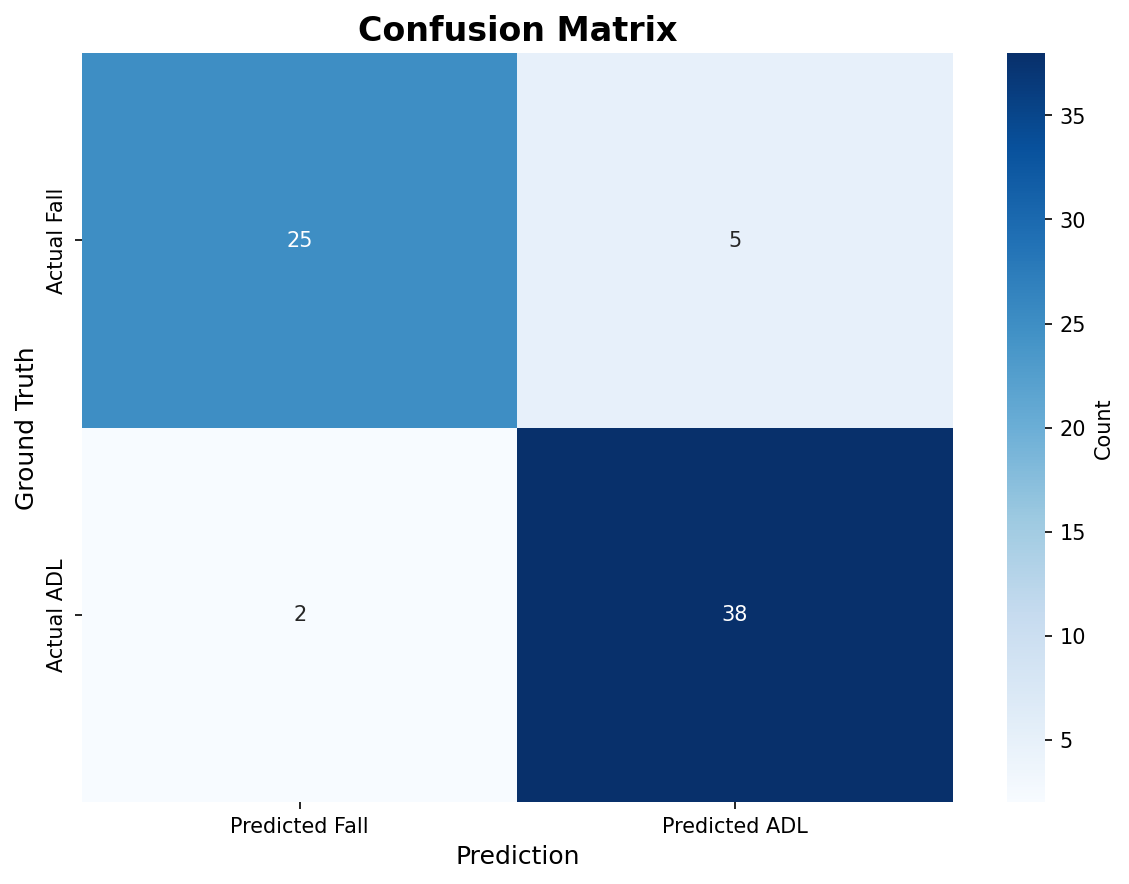
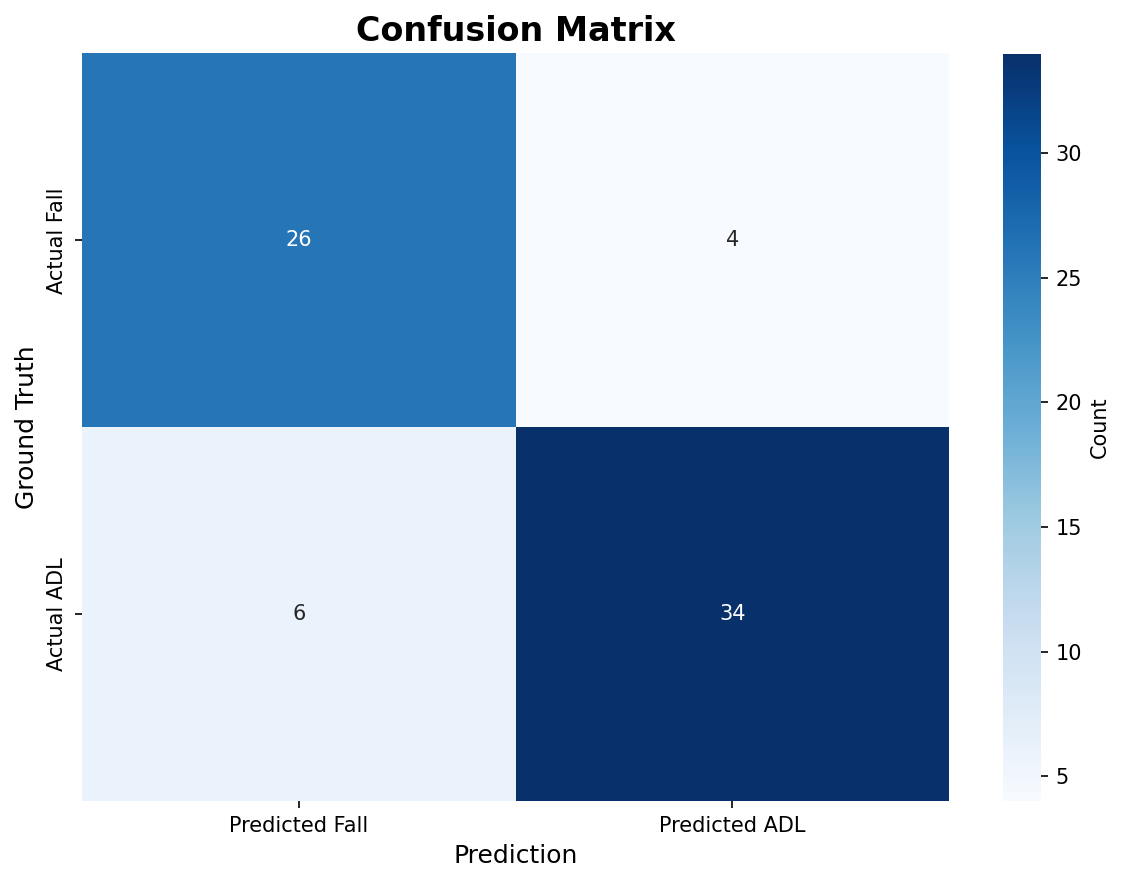
test evaluation

diff --git a/urfd_fall_yolo_pose/src/urfd/rules.py b/urfd_fall_yolo_pose/src/urfd/rules.py
@@ -11,6 +11,7 @@ def check_fall_candidate(features, angle_thres, ar_thres, height_drop,
     - PATH 2: height_drop >= height_drop_thres
     - PATH 3: dy >= dy_fall_thres (fast downward motion)
     - PATH 4: body_angle >= high_angle_thres AND dy_peak >= 3.0 (very horizontal posture)
+    - PATH 5: (BORDER SAFE) body_angle >= (angle_thres + 5) AND dy_peak >= impact_dy_thres
     
     Args:
         features: Frame features dict from compute_frame_features
@@ -40,6 +41,7 @@ def check_fall_candidate(features, angle_thres, ar_thres, height_drop,
     # DISABLED when border is clipped (AR unreliable)
     # =========================================================
     angle_ar_condition = False
+    border_angle_condition = False
     if not is_touching_border:
         if features["feature_valid"] and features["body_angle_deg"] is not None:
             dy_peak = features.get("dy_peak", 0.0)
@@ -48,6 +50,14 @@ def check_fall_candidate(features, angle_thres, ar_thres, height_drop,
                 features["bbox_aspect_ratio"] >= ar_thres and
                 dy_peak >= impact_dy_thres):
                 angle_ar_condition = True
+    else:
+        # BORDER SAFE: AR can be unreliable when bbox is clipped at image edges.
+        # Use a slightly stricter angle threshold, and still require impact-like motion.
+        if features["feature_valid"] and features["body_angle_deg"] is not None:
+            dy_peak = features.get("dy_peak", 0.0)
+            if (features["body_angle_deg"] >= (angle_thres + 5.0) and
+                dy_peak >= impact_dy_thres):
+                border_angle_condition = True
     
     # =========================================================
     # PATH 2: HEIGHT DROP DETECTION
@@ -74,7 +84,13 @@ def check_fall_candidate(features, angle_thres, ar_thres, height_drop,
             high_angle_condition = True
     
     # Any of the four paths triggers candidate status
-    return angle_ar_condition or height_drop_condition or dy_condition or high_angle_condition
+    return (
+        angle_ar_condition
+        or border_angle_condition
+        or height_drop_condition
+        or dy_condition
+        or high_angle_condition
+    )
 
 def check_lying_posture(features, confirm_angle_thres, confirm_ar_thres):
     """

diff --git a/urfd_fall_yolo_pose/scripts/eval_all.py b/urfd_fall_yolo_pose/scripts/eval_all.py
@@ -189,11 +189,18 @@ def eval_all(root_dir, index_path, config_path, no_videos=False):
     print(f"Deleted {len(old_videos)} old videos, {len(old_plots)} old plots")
     
     index_path = Path(index_path)
-    if not index_path.exists():
-        print(f"Index file {index_path} not found. Preparing dataset...")
+    # If file exists but is empty, pandas will throw EmptyDataError.
+    # Treat empty index the same as missing: regenerate it.
+    if (not index_path.exists()) or index_path.stat().st_size == 0:
+        print(f"Index file {index_path} missing/empty. Preparing dataset...")
         prepare_urfd(root_dir, index_path)
-    
-    df_index = pd.read_csv(index_path)
+
+    try:
+        df_index = pd.read_csv(index_path)
+    except pd.errors.EmptyDataError:
+        print(f"Index file {index_path} is empty. Re-preparing dataset...")
+        prepare_urfd(root_dir, index_path)
+        df_index = pd.read_csv(index_path)
     print(f"Loaded {len(df_index)} sequences from index")
     
     print("Initializing YOLOv8s-pose detector...")
